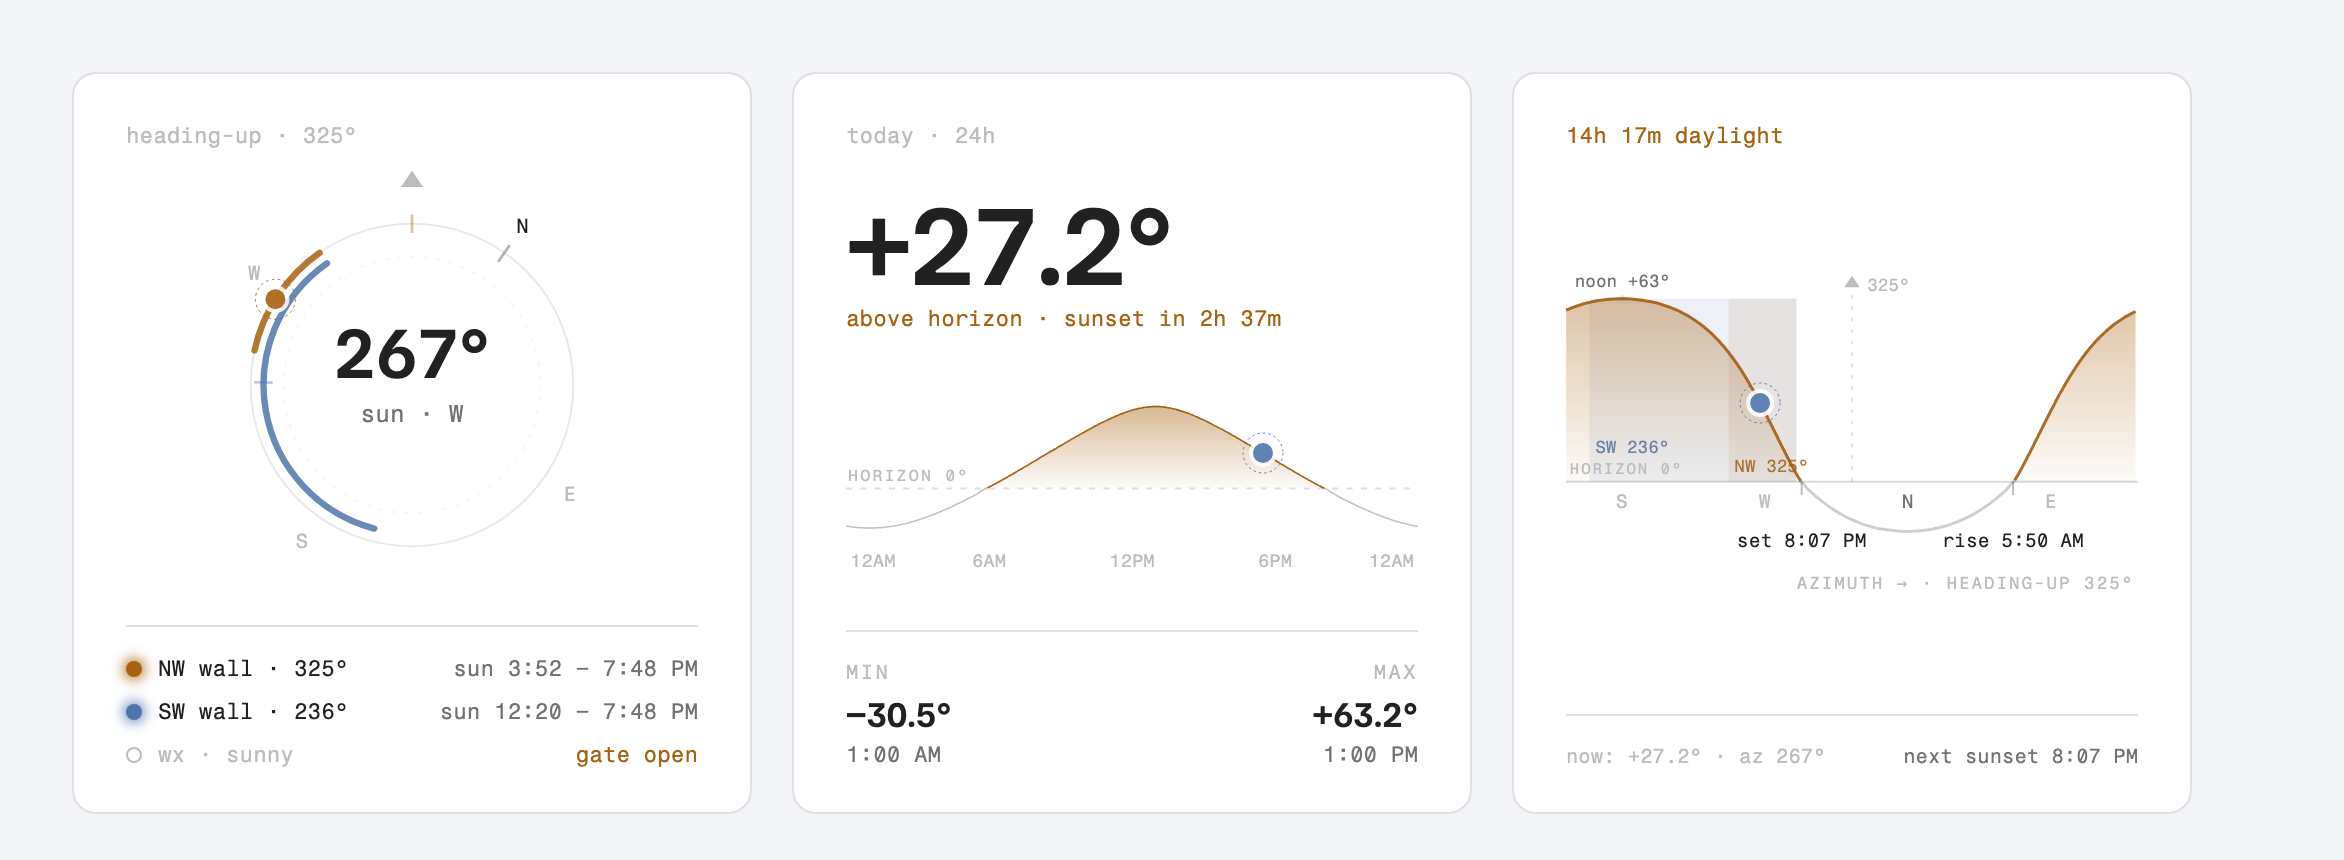
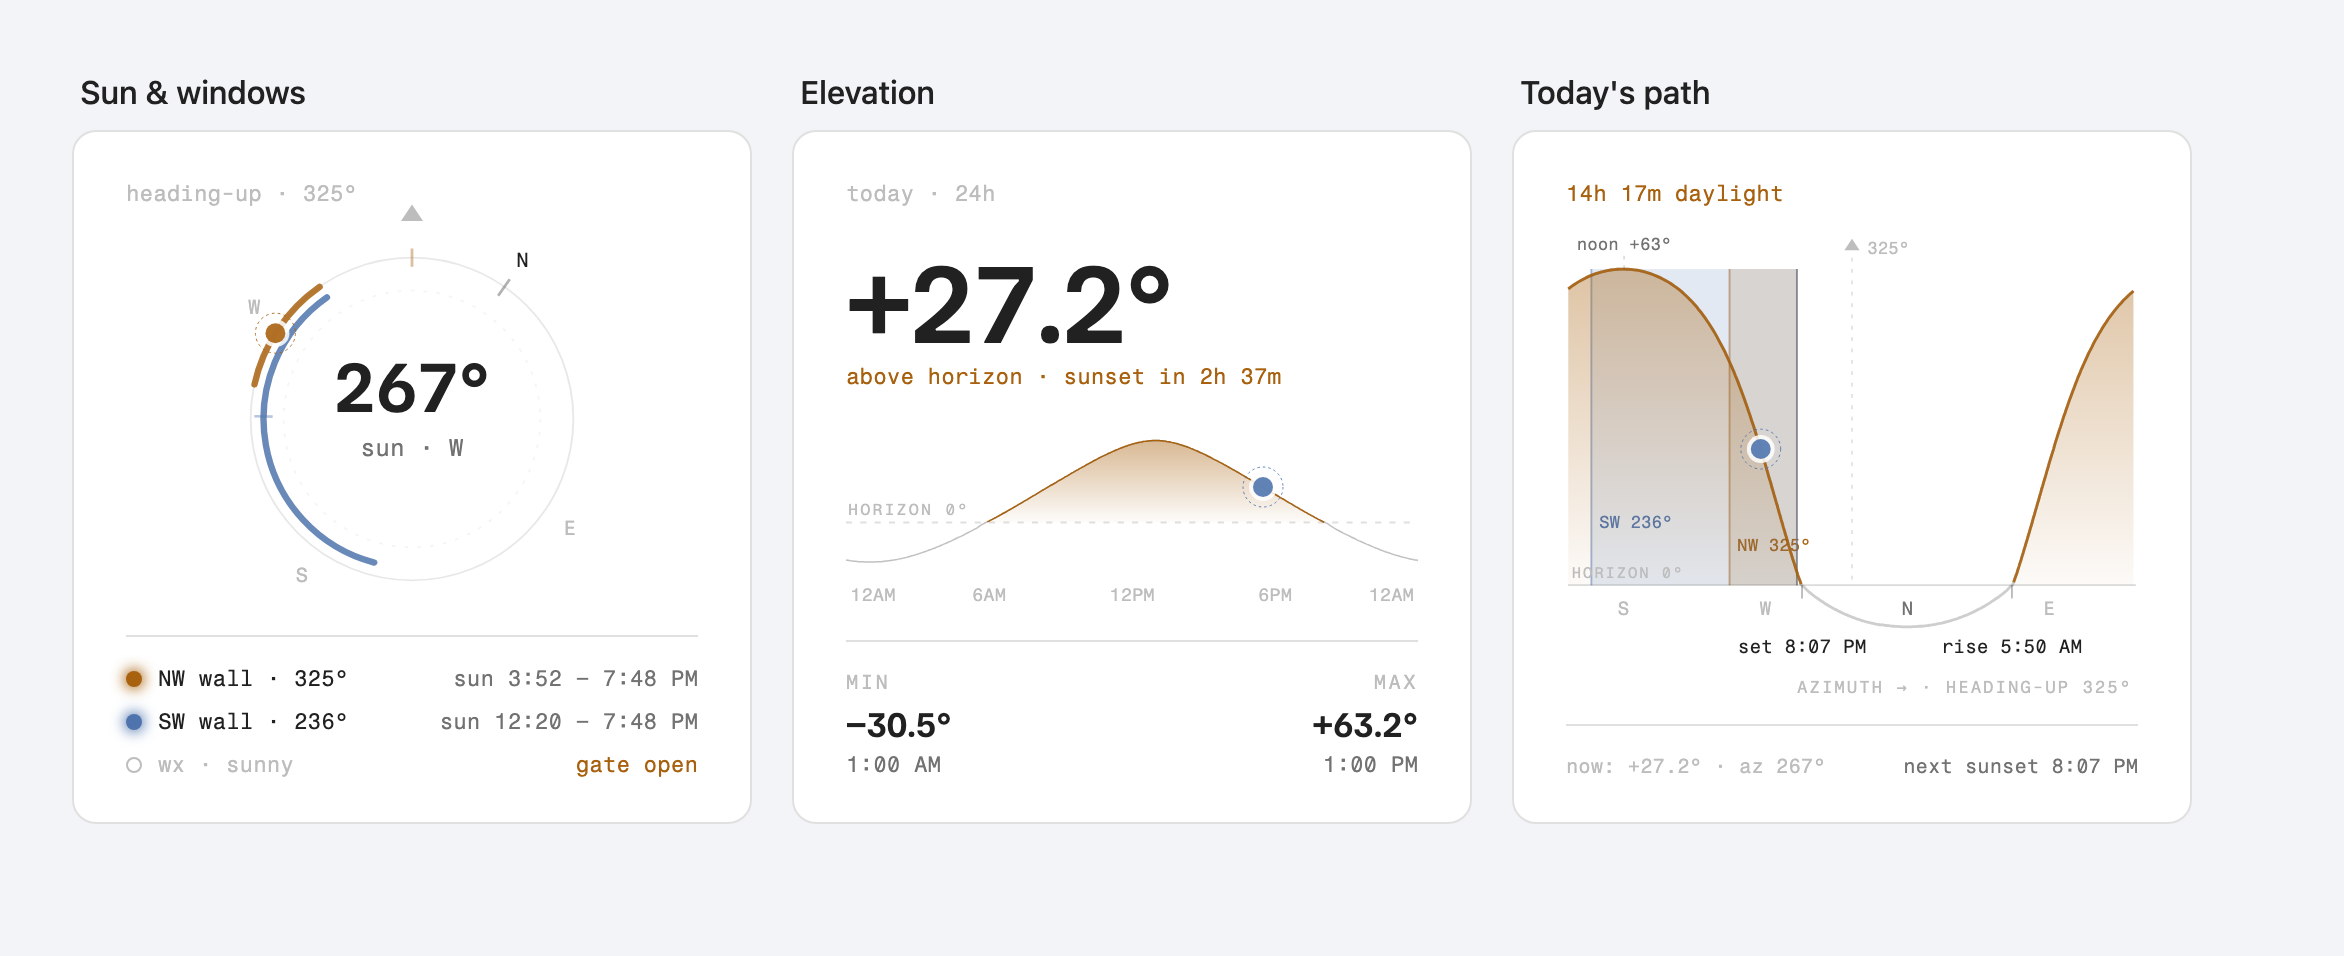
v1.6.0: fill the path card, stronger wall bands, section headings
The path chart floated in the middle of its card with ~90px of dead
space. Its viewBox aspect is now matched to the box a 6-row card leaves,
so it fills both dimensions; all three cards line up with equal footer
gaps. Wall bands were near-invisible at 0.10 opacity - raised to 0.16
with edge lines marking where each lit stretch begins and ends. Example
view and dev harness now carry section headings, since the cards no
longer title themselves.

diff --git a/sun-cards.js b/sun-cards.js
@@ -12,7 +12,7 @@
 (() => {
   'use strict';
 
-  const VERSION = '1.5.0';
+  const VERSION = '1.6.0';
   const REPO = 'https://github.com/tkamenick/lovelace-sun-cards';
 
   /* ── palette ────────────────────────────────────────────────────────────
@@ -699,9 +699,15 @@
       const bx = (azm) => ((rel(azm) + 180) * 300) / 360;
       const maxEl = Math.max(tb.max.el, 5);
       const minEl = Math.min(tb.min.el, -2);
-      const yTop = 14;
-      const yHor = 110;
-      const nightDepth = 26;
+      // The plot is tall relative to its width so the chart fills the card
+      // instead of floating in it; the axis furniture below the horizon keeps
+      // the same footprint it had, so label sizes are unchanged.
+      // viewBox aspect is tuned to the box a 6-row card leaves for the chart,
+      // so it fills both dimensions instead of letterboxing in one of them
+      const VB_H = 248;
+      const yTop = 18;
+      const yHor = 185;
+      const nightDepth = 22;
       const Y = (e) => (e >= 0 ? yHor - (e / maxEl) * (yHor - yTop) : yHor + (-e / -minEl) * nightDepth);
 
       // curve segments, broken where the heading-up x-axis wraps
@@ -751,12 +757,20 @@
           const wc = this._wallColor(w);
           const rects = [];
           const add = (l, r) => {
-            l = Math.max(0, l);
-            r = Math.min(300, r);
-            if (r > l)
-              rects.push(
-                `<rect x="${l.toFixed(1)}" y="14" width="${(r - l).toFixed(1)}" height="96" fill="${wc}" opacity="0.10"></rect>`
-              );
+            const L = Math.max(0, l);
+            const R = Math.min(300, r);
+            if (R <= L) return;
+            rects.push(
+              `<rect x="${L.toFixed(1)}" y="${yTop}" width="${(R - L).toFixed(1)}" height="${(yHor - yTop).toFixed(0)}" fill="${wc}" opacity="0.16"></rect>`
+            );
+            // edges only where the band truly starts/ends, not where it was
+            // clipped by the edge of the chart
+            for (const [x, real] of [[L, l >= 0], [R, r <= 300]]) {
+              if (real)
+                rects.push(
+                  `<line x1="${x.toFixed(1)}" y1="${yTop}" x2="${x.toFixed(1)}" y2="${yHor}" stroke="${wc}" stroke-width="1" opacity="0.5"></line>`
+                );
+            }
           };
           const wins = glassWindows(tb.pts, w.bearing, c.sun_window, c.min_elevation);
           let labelX = bx(w.bearing);
@@ -772,12 +786,13 @@
             if (i === 0) labelX = x1;
           });
           const short = esc(String(w.name || '').split(/\s+/)[0].toUpperCase());
-          // anchored to each band's left edge, and stepped down per wall, so
-          // labels stay apart even when the bands themselves overlap heavily
-          const ly = 105 - w.slot * 10;
+          // anchored to each band's left edge and stacked upward per wall, so
+          // labels stay apart when the bands overlap and clear the horizon
+          // caption sitting at the bottom-left
+          const ly = yHor - 18 - w.slot * 12;
           return (
             rects.join('') +
-            `<text x="${Math.min(250, Math.max(2, labelX + 3)).toFixed(1)}" y="${ly}" text-anchor="start" fill="${wc}" font-family="${MONO_SVG}" font-size="9" opacity="0.85">${short} ${Math.round(w.bearing)}°</text>`
+            `<text x="${Math.min(250, Math.max(2, labelX + 4)).toFixed(1)}" y="${ly}" text-anchor="start" fill="${wc}" font-family="${MONO_SVG}" font-size="9" opacity="0.95">${short} ${Math.round(w.bearing)}°</text>`
           );
         })
         .join('');
@@ -790,10 +805,10 @@
         const riseX = bx(solarPos(tb.rise, lat, lon).az).toFixed(1);
         const setX = bx(solarPos(tb.set, lat, lon).az).toFixed(1);
         riseSet = `
-          <line x1="${riseX}" y1="110" x2="${riseX}" y2="117" stroke="${C.line}" stroke-opacity="0.3" stroke-width="1"></line>
-          <line x1="${setX}" y1="110" x2="${setX}" y2="117" stroke="${C.line}" stroke-opacity="0.3" stroke-width="1"></line>
-          <text x="${riseX}" y="144" text-anchor="middle" fill="${C.ink}" font-family="${MONO_SVG}" font-size="10">rise ${fmtTime(hass, tb.rise)}</text>
-          <text x="${setX}" y="144" text-anchor="middle" fill="${C.ink}" font-family="${MONO_SVG}" font-size="10">set ${fmtTime(hass, tb.set)}</text>`;
+          <line x1="${riseX}" y1="${yHor}" x2="${riseX}" y2="${yHor + 7}" stroke="${C.line}" stroke-opacity="0.3" stroke-width="1"></line>
+          <line x1="${setX}" y1="${yHor}" x2="${setX}" y2="${yHor + 7}" stroke="${C.line}" stroke-opacity="0.3" stroke-width="1"></line>
+          <text x="${riseX}" y="${yHor + 36}" text-anchor="middle" fill="${C.ink}" font-family="${MONO_SVG}" font-size="10">rise ${fmtTime(hass, tb.rise)}</text>
+          <text x="${setX}" y="${yHor + 36}" text-anchor="middle" fill="${C.ink}" font-family="${MONO_SVG}" font-size="10">set ${fmtTime(hass, tb.set)}</text>`;
       }
 
       const sunX = bx(az).toFixed(1);
@@ -805,8 +820,8 @@
 
       return this._card(`
         ${this._header(c.name, daylight, C.orange)}
-        <div style="margin:auto 0; padding-top:14px;">
-        <svg width="100%" height="172" viewBox="0 0 300 172" style="display:block; overflow:visible;" role="img" aria-label="Sun path today">
+        <div style="flex:1 1 auto; min-height:0; display:flex; padding-top:14px;">
+        <svg width="100%" height="100%" viewBox="0 0 300 ${VB_H}" preserveAspectRatio="xMidYMid meet" style="display:block; overflow:visible;" role="img" aria-label="Sun path today">
           <defs>
             <linearGradient id="sc-path-g" x1="0" y1="0" x2="0" y2="1">
               <stop offset="0" stop-color="${C.orange}" stop-opacity="0.38"></stop>
@@ -815,22 +830,22 @@
           </defs>
           ${bands}
           <path d="M 146 8 L 150 2 L 154 8 Z" fill="${C.faint}"></path>
-          <line x1="150" y1="12" x2="150" y2="110" stroke="${C.line}" stroke-opacity="0.12" stroke-width="1" stroke-dasharray="2 4"></line>
+          <line x1="150" y1="12" x2="150" y2="${yHor}" stroke="${C.line}" stroke-opacity="0.12" stroke-width="1" stroke-dasharray="2 4"></line>
           <text x="158" y="10" text-anchor="start" fill="${C.faint}" font-family="${MONO_SVG}" font-size="9">${heading}°</text>
           <path d="${dayFill}" fill="url(#sc-path-g)"></path>
           <path d="${fullCurve}" fill="none" stroke="${C.line}" stroke-opacity="0.22" stroke-width="1.5"></path>
           <path d="${dayStroke}" fill="none" stroke="${C.orange}" stroke-width="1.5" opacity="0.9"></path>
-          <line x1="0" y1="110" x2="300" y2="110" stroke="${C.line}" stroke-opacity="0.16" stroke-width="1"></line>
-          <text x="2" y="106" fill="${C.ghost}" font-family="${MONO_SVG}" font-size="8" letter-spacing="1">HORIZON 0°</text>
+          <line x1="0" y1="${yHor}" x2="300" y2="${yHor}" stroke="${C.line}" stroke-opacity="0.16" stroke-width="1"></line>
+          <text x="2" y="${yHor - 4}" fill="${C.ghost}" font-family="${MONO_SVG}" font-size="8" letter-spacing="1">HORIZON 0°</text>
           <line x1="${noonX}" y1="${noonY}" x2="${noonX}" y2="10" stroke="${C.line}" stroke-opacity="0.15" stroke-width="1" stroke-dasharray="2 3"></line>
           <text x="${noonX}" y="8" text-anchor="middle" fill="${C.dim}" font-family="${MONO_SVG}" font-size="9">noon ${fmtSigned(tb.max.el, 0)}</text>
           ${riseSet}
-          <text x="${bx(0).toFixed(1)}" y="124" text-anchor="middle" fill="${C.dim}" font-family="${MONO_SVG}" font-size="10">N</text>
-          <text x="${bx(90).toFixed(1)}" y="124" text-anchor="middle" fill="${C.faint}" font-family="${MONO_SVG}" font-size="10">E</text>
-          <text x="${bx(180).toFixed(1)}" y="124" text-anchor="middle" fill="${C.faint}" font-family="${MONO_SVG}" font-size="10">S</text>
-          <text x="${bx(270).toFixed(1)}" y="124" text-anchor="middle" fill="${C.faint}" font-family="${MONO_SVG}" font-size="10">W</text>
+          <text x="${bx(0).toFixed(1)}" y="${yHor + 16}" text-anchor="middle" fill="${C.dim}" font-family="${MONO_SVG}" font-size="10">N</text>
+          <text x="${bx(90).toFixed(1)}" y="${yHor + 16}" text-anchor="middle" fill="${C.faint}" font-family="${MONO_SVG}" font-size="10">E</text>
+          <text x="${bx(180).toFixed(1)}" y="${yHor + 16}" text-anchor="middle" fill="${C.faint}" font-family="${MONO_SVG}" font-size="10">S</text>
+          <text x="${bx(270).toFixed(1)}" y="${yHor + 16}" text-anchor="middle" fill="${C.faint}" font-family="${MONO_SVG}" font-size="10">W</text>
           ${sunMarker(sunX, sunY, C.blue, C)}
-          <text x="298" y="166" text-anchor="end" fill="${C.ghost}" font-family="${MONO_SVG}" font-size="9" letter-spacing="1">AZIMUTH → · HEADING-UP ${heading}°</text>
+          <text x="298" y="${VB_H - 6}" text-anchor="end" fill="${C.ghost}" font-family="${MONO_SVG}" font-size="9" letter-spacing="1">AZIMUTH → · HEADING-UP ${heading}°</text>
         </svg>
         </div>
         <div style="display:flex; justify-content:space-between; gap:12px; padding-top:14px; border-top:1px solid ${C.divider}; margin-top:10px;">

diff --git a/dev/harness.html b/dev/harness.html
@@ -7,8 +7,11 @@
   body { margin:0; background:#131318; padding:36px; display:flex; flex-direction:column; gap:28px; font-family:monospace; }
   h2 { color:#8b8d96; font:12px monospace; margin:0; letter-spacing:0.1em; text-transform:uppercase; }
   .row { display:flex; gap:20px; align-items:stretch; flex-wrap:wrap; }
-  .col { width:340px; display:flex; }
-  .col > * { flex:1; }
+  /* fixed height + min-height:0 mirrors how HA's sections grid sizes cards */
+  .col { width:340px; height:376px; display:flex; flex-direction:column; gap:8px; }
+  .col > :last-child { flex:1; min-height:0; }
+  /* approximates HA's sections-layout heading card */
+  .hdg { font:500 16px/1.3 system-ui,-apple-system,sans-serif; color:var(--primary-text-color,#e1e1e1); padding:0 4px; }
   /* HA default dark theme */
   #dark {
     --ha-card-background: #1c1c1c;
@@ -97,17 +100,21 @@ const WALLS = [
 
 function addCards(rowId, hass, extraCfg = {}) {
   const cfgs = [
-    ['sun-cards-bearing', { heading: 325, walls: WALLS, sun_window: 78, min_elevation: 3,
+    ['sun-cards-bearing', 'Sun & windows', { heading: 325, walls: WALLS, sun_window: 78, min_elevation: 3,
       weather_entity: 'weather.kues', bypass_entity: 'input_boolean.shades_ignore_weather' }],
-    ['sun-cards-elevation', {}],
-    ['sun-cards-path', { heading: 325, walls: WALLS }],
+    ['sun-cards-elevation', 'Elevation', {}],
+    ['sun-cards-path', "Today's path", { heading: 325, walls: WALLS, sun_window: 78, min_elevation: 3 }],
   ];
-  for (const [tag, cfg] of cfgs) {
+  for (const [tag, heading, cfg] of cfgs) {
     const card = document.createElement(tag);
     card.setConfig({ ...cfg, ...extraCfg });
     card.hass = hass;
     const wrap = document.createElement('div');
     wrap.className = 'col';
+    const h = document.createElement('div');
+    h.className = 'hdg';
+    h.textContent = heading;
+    wrap.appendChild(h);
     wrap.appendChild(card);
     document.getElementById(rowId).appendChild(wrap);
   }
